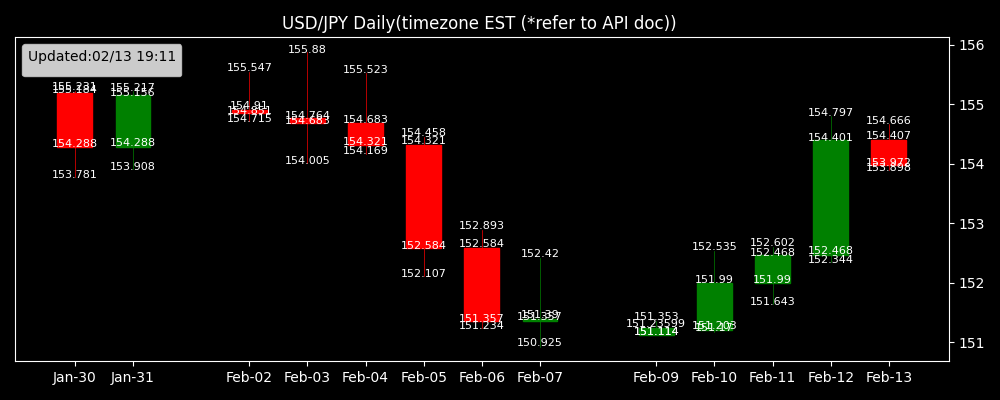
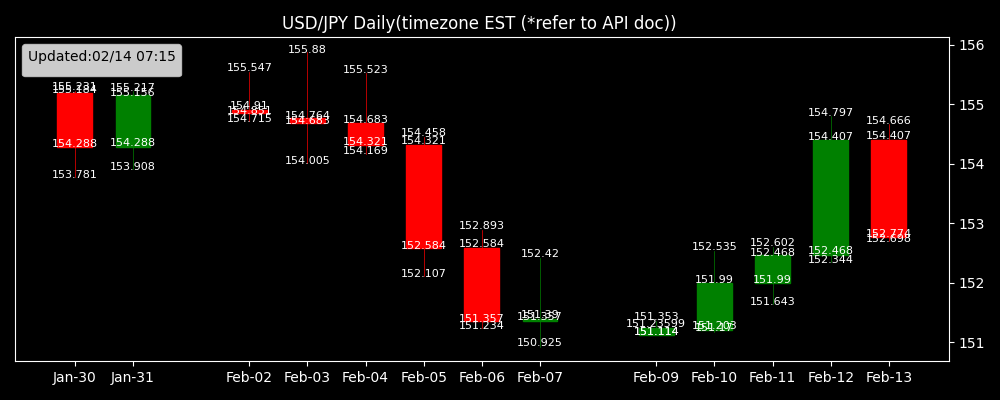
crongenerated

Changed region(s): [[0.868, 0.39, 0.93, 0.6], [0.806, 0.33, 0.868, 0.36], [0.124, 0.12, 0.186, 0.15]]

diff --git a/docs/src/dashboard/marketinfo.html b/docs/src/dashboard/marketinfo.html
@@ -14,16 +14,16 @@
     </style>
 </head>
 <body>
-    <h3> 概況 (更新： 02/13 19:11 ) </h3>
-    <p>この為替データは、2025年の1月末から2月中旬にかけての1つの通貨ペアの動きを示しています。総じて見ると、この期間にはいくつかの重要なトレンドや変動が見受けられます。
+    <h3> 概況 (更新： 02/14 07:15 ) </h3>
+    <p>為替の動向を眺めたところ、以下の特徴が見られます。
 
-まず、1月末から2月初旬にかけては、全体的に価格が高値圏で推移していることが確認できます。具体的に、1月30日から2月5日までの間で開いた価格と閉じた価格を比較すると、いくつかの大きな上下動が見られます。この間の高ボリュームの日（例えば、1月30日や2月6日）は、市場参加者が活発に取引を行っていることを示唆しており、重要な経済指標の発表や政策変更、あるいは地政学的なニュースなどが影響している可能性があります。例えば、中央銀行の政策会合の結果や、主要国の経済指標の発表があったと考えられます。
+まず、2025年2月上旬から中旬にかけての期間には、この通貨ペアが比較的高いレベルで推移した後にやや下落する様子が見られます。特に、2月2日から2月5日にかけての上昇は、通常150台中盤で推移しているウィークの高値圏を示しています。しかし、その後の2月6日から13日には低下傾向が顕著となっています。
 
-2月に入ってからは、価格がやや下振れし始めたことがわかります。特に、2月12日から13日にかけては急激な下落が見られ、開いた価格と閉じた価格の差（ギャップ）から、重要な市場の転機が訪れたことを示唆しているかもしれません。この時期には、金融政策に関するニュースや政治的な変動が影響を与えている可能性があります。
+この変動の背景には、経済指標の発表や中央銀行の政策発表などが影響を与えている可能性が考えられます。特に、近年ではグローバル経済の変化や地政学的リスク、それに伴う投資家心理が大きく関わっている可能性があります。また、ボリュームの面でも変動が見られ、特に2月6日には出来高が非常に高かったことから、この日には重要な市場の出来事やニュースがあった可能性が考えられます。
 
-また、2月9日から13日にかけての低ボリュームの日を考慮すると、投資家のリスク回避姿勢が一時的に高まっていた可能性も考えられます。このような状況では、さらに大きな動きを引き起こす触発要素が存在するかどうかを注視することが重要です。
+加えて、貿易収支やインフレ率の動向が為替相場に影響を与えていることもしばしば見られ、ここ数週間のボラティリティの上昇は、投資家がそれらの指標を注視していることを示唆しているかもしれません。市場がこの後も同様のボラティリティを見せるかどうかは、不確実性が続く中で予想が困難ですが、関心が高まってきていることは否めません。
 
-概して、この期間中には複数の要因が複雑に絡み合いながら為替レートに影響を与えたことがうかがえます。これらのデータを分析する際には、別途市場全体の動きや関連する経済ニュースを考慮に入れることが不可欠です。</p>
+いずれにせよ、将来的な展開を予測するためには、今後の経済指標の発表や政策の変化に注視し続けることが重要です。</p>
 
     <p>Text generated from ChatGPT API.</p>
 

diff --git a/docs/src/dashboard/forecast_text.html b/docs/src/dashboard/forecast_text.html
@@ -5,10 +5,10 @@
     
 </head>
 <body>
-    <h3>今日の天気 (02-13 Thu)</h3>
-    <p>2025年2月13日の東京の天気についてお伝えします。この日は曇りがちで、一部で雨が降る時間帯もありますが、日中は天気が回復して晴れる見込みです。最高気温は12.4℃、最低気温は2.8℃です。
+    <h3>今日の天気 (02-14 Fri)</h3>
+    <p>2025年2月14日の天気は、終日晴れで、雨の心配はありません。気温は最低2.2°Cから、最高でも11.4°Cまで上がります。日照時間は約9.9時間（35748.66秒）で、UVインデックスの最大値は4.7です。
 
-日照時間は約35685秒（9.9時間）あります。最大UVインデックスは4.65と予測されています。このUVインデックスでは、中程度の紫外線の強さがありますので、長時間屋外にいる場合は日傘を使用することをおすすめします。特にお昼頃は紫外線が強くなることがあるため、適度な対策が必要です。</p>
-    (更新：02/13 19:11)
+UVインデックスが3以上であれば、日焼け止めや日傘の使用を考慮するのが良いとされています。この日の最大UVインデックスは4.7であるため、日中の外出時には日傘を使用すると良いでしょう。</p>
+    (更新：02/14 07:15)
 
 </html>
